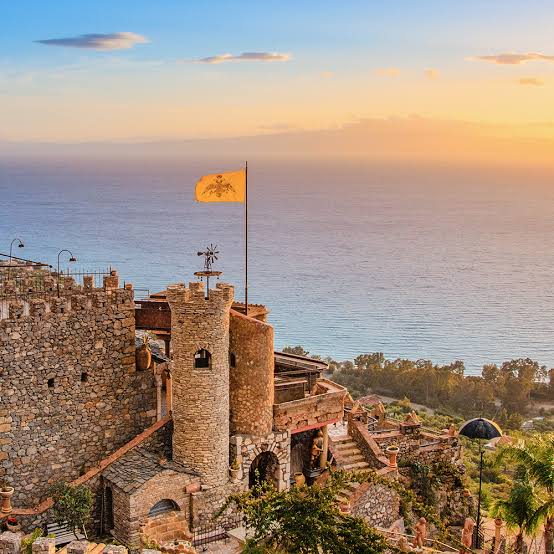
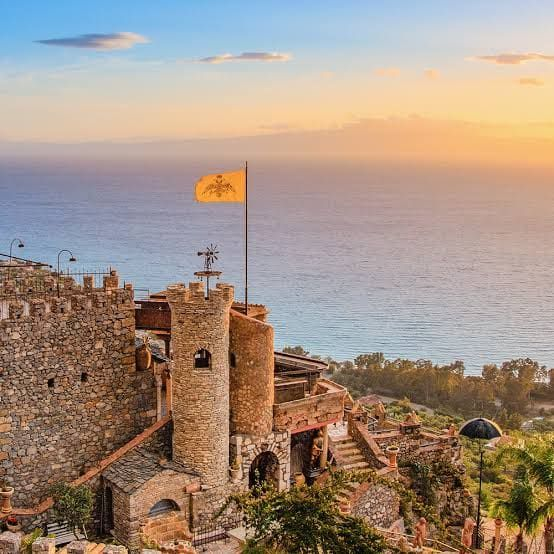
Second PageSpeed pass: image compression, font consolidation, contrast
From a fresh mobile PageSpeed run (LCP already down to 4.1s from the
15s fix): three more findings addressed.

- Compress all destination photos with sharp: strip EXIF metadata,
  cap at 1600px, re-encode at quality 78 with mozjpeg. Only replaces
  a file if the result is smaller. meteora-1.jpg alone drops from
  1.13MB to 343KB (it had full Adobe Lightroom EXIF data and no
  chroma subsampling); total across all 18 photos goes from 2021KB
  to 1201KB. Same filenames/paths, so no code changes needed.
  Addresses "Improve image delivery" (1,268 KiB estimated savings).

- Consolidate Google Fonts loading: previously @import'd separately
  in index.css AND duplicated inside Login.jsx, HotelDashboard.jsx,
  and AdminDashboard.jsx's embedded <style> blocks (each a near-
  identical but not-quite-matching URL). Replaced all four with one
  <link> in index.html covering the union of every family/weight
  actually used (including Outfit, which index.css's version was
  missing), plus preconnect hints for fonts.googleapis.com and
  fonts.gstatic.com. CSS @import is inherently render-blocking and
  only discovered after the browser starts parsing the file that
  contains it; a <link> is discovered immediately during HTML
  parsing. Addresses "Render-blocking requests" (~2s estimated
  savings).

- Two more contrast fixes matching the same low-opacity-white-on-
  --blue-deep pattern already fixed in Footer.jsx: Destinations.jsx's
[…]

diff --git a/index.html b/index.html
@@ -11,6 +11,21 @@
     <link rel="alternate" hreflang="el" href="https://mo-transfers4all.gr/gr" />
     <link rel="alternate" hreflang="x-default" href="https://mo-transfers4all.gr/" />
 
+    <!-- Single consolidated font load for the whole app (public site,
+         admin, hotel, login all share this) — union of every family/weight
+         used anywhere, including Outfit which only AdminDashboard needs.
+         Previously each of those pages' embedded <style> blocks had its
+         own separate @import of a near-duplicate URL, and CSS @import is
+         inherently render-blocking and only discovered after the browser
+         starts parsing the stylesheet that contains it — both add up to
+         real render-blocking latency (PageSpeed flagged ~2s). A <link>
+         here is discovered immediately during HTML parsing, and the
+         preconnect hints below start the connection to both Google Fonts
+         hosts before the browser even requests the stylesheet. -->
+    <link rel="preconnect" href="https://fonts.googleapis.com" />
+    <link rel="preconnect" href="https://fonts.gstatic.com" crossorigin />
+    <link rel="stylesheet" href="https://fonts.googleapis.com/css2?family=Playfair+Display:ital,wght@0,400;0,600;0,700;1,400;1,600&family=Inter:wght@300;400;500;600&family=Outfit:wght@600;700&display=swap" />
+
     <!-- Google tag (gtag.js) -->
     <script>
       window.dataLayer = window.dataLayer || [];

diff --git a/src/pages/Privacy.jsx b/src/pages/Privacy.jsx
@@ -150,7 +150,7 @@ export default function Privacy() {
           {t.title} <em style={{ color: '#7ec8f0' }}>{t.titleEm}</em>
         </h1>
         <div style={{ width: '50px', height: '2px', background: 'linear-gradient(90deg,#7ec8f0,transparent)', margin: '1rem auto 0' }}/>
-        <p style={{ fontSize: '0.72rem', color: 'rgba(255,255,255,0.45)', marginTop: '0.75rem' }}>{t.updated}</p>
+        <p style={{ fontSize: '0.72rem', color: 'rgba(255,255,255,0.6)', marginTop: '0.75rem' }}>{t.updated}</p>
       </div>
 
       <div style={{ maxWidth: '760px', margin: '0 auto', padding: '3rem 1.5rem 5rem' }}>

diff --git a/src/pages/Terms.jsx b/src/pages/Terms.jsx
@@ -133,7 +133,7 @@ export default function Terms() {
           {t.title} <em style={{ color: '#7ec8f0' }}>{t.titleEm}</em>
         </h1>
         <div style={{ width: '50px', height: '2px', background: 'linear-gradient(90deg,#7ec8f0,transparent)', margin: '1rem auto 0' }}/>
-        <p style={{ fontSize: '0.72rem', color: 'rgba(255,255,255,0.45)', marginTop: '0.75rem' }}>{t.updated}</p>
+        <p style={{ fontSize: '0.72rem', color: 'rgba(255,255,255,0.6)', marginTop: '0.75rem' }}>{t.updated}</p>
       </div>
 
       <div style={{ maxWidth: '760px', margin: '0 auto', padding: '3rem 1.5rem 5rem' }}>

diff --git a/src/components/Destinations.jsx b/src/components/Destinations.jsx
@@ -130,7 +130,7 @@ export default function Destinations({ lang }) {
           {rest.map(d => <Card key={d.id} dest={d} isWide={false}/>)}
         </div>
 
-        <p style={{ textAlign: 'center', marginTop: '1.5rem', fontSize: '0.8rem', color: 'rgba(255,255,255,0.5)' }}>
+        <p style={{ textAlign: 'center', marginTop: '1.5rem', fontSize: '0.8rem', color: 'rgba(255,255,255,0.6)' }}>
           {t.anywhere}
         </p>
       </div>

diff --git a/src/pages/Login.jsx b/src/pages/Login.jsx
@@ -36,8 +36,6 @@ export default function Login() {
   return (
     <>
       <style>{`
-        @import url('https://fonts.googleapis.com/css2?family=Playfair+Display:wght@400;600&family=Inter:wght@300;400;500;600&display=swap');
-
         .login-page {
           min-height: 100vh;
           background: linear-gradient(135deg, #eef5fb 0%, #f8fafc 50%, #d6e8f7 100%);

diff --git a/src/index.css b/src/index.css
@@ -1,4 +1,5 @@
-@import url('https://fonts.googleapis.com/css2?family=Playfair+Display:ital,wght@0,400;0,600;0,700;1,400;1,600&family=Inter:wght@300;400;500;600&display=swap');
+/* Playfair Display / Inter / Outfit are loaded once, for the whole app,
+   via a <link> in index.html — see the comment there for why. */
 
 :root {
   --blue-deep:   #0f3460;

diff --git a/src/pages/AdminDashboard.jsx b/src/pages/AdminDashboard.jsx
@@ -293,8 +293,6 @@ export default function AdminDashboard() {
   return (
     <>
       <style>{`
-        @import url('https://fonts.googleapis.com/css2?family=Playfair+Display:wght@400;600&family=Inter:wght@300;400;500;600&family=Outfit:wght@600;700&display=swap');
-
         * { box-sizing: border-box; }
 
         .adm-page {

diff --git a/src/pages/HotelDashboard.jsx b/src/pages/HotelDashboard.jsx
@@ -178,8 +178,6 @@ export default function HotelDashboard() {
   return (
     <>
       <style>{`
-        @import url('https://fonts.googleapis.com/css2?family=Playfair+Display:wght@400;600&family=Inter:wght@300;400;500;600&display=swap');
-
         * { box-sizing: border-box; }
 
         .htl-page {
